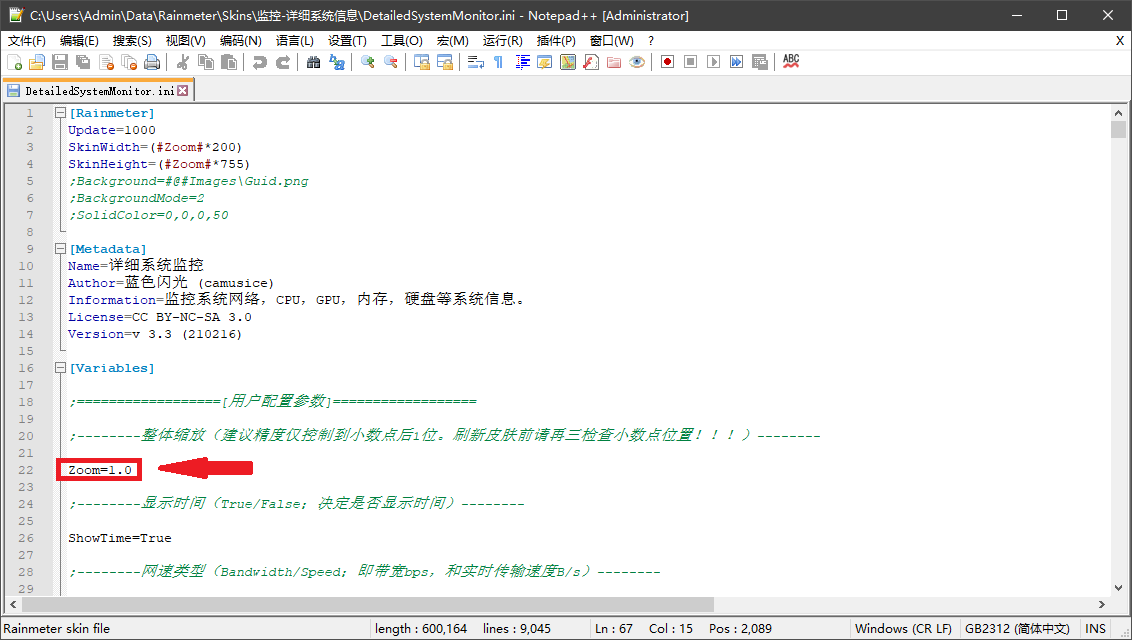
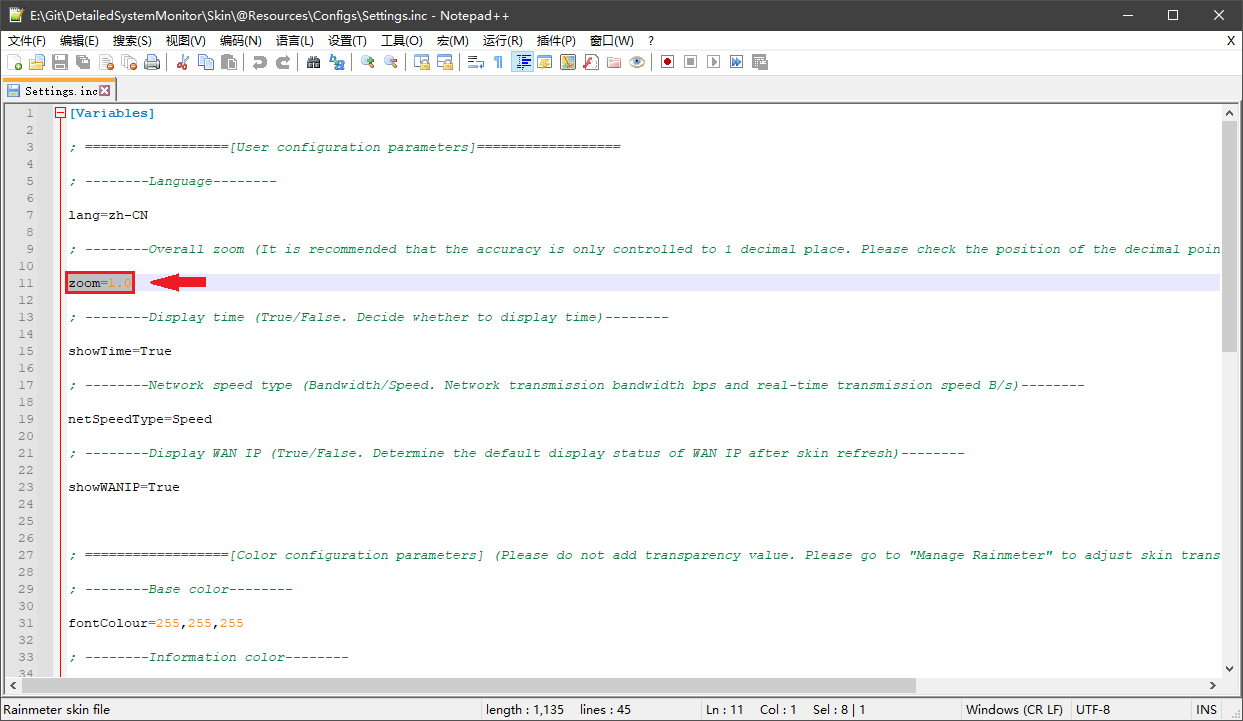
Add a supplementary method to capture the temperature of the NVIDIA GPU

Changed region(s): [[0.0, 0.0, 1.0, 1.0]]

diff --git a/Documents/Q&A.md b/Documents/Q&A.md
@@ -3,7 +3,7 @@
 
 #### 1. 为什么在我的电脑上，皮肤看起来很小？
 
-　　皮肤默认尺寸为 200 x 755 像素，不同计算机显示器的像素密度不同，在小尺寸但高分辨率屏幕上显示，看起来就会很小。解决方法是打开皮肤配置文件调整皮肤的缩放比例参数（如下图）：建议固定选择 **1.2**，**1.5** 或 **2.0**。特别注意**刷新皮肤前请检查小数点位置！！**
+　　皮肤默认尺寸为 200 x 755 像素，不同计算机显示器的像素密度不同，在小尺寸但高分辨率屏幕上显示，看起来就会很小。解决方法是打开皮肤目录下的“@Resources\Configs\Settings.inc”文件调整皮肤的缩放比例参数（如下图）：建议固定选择 **1.2**，**1.5** 或 **2.0**。特别注意**刷新皮肤前请检查小数点在正确位置！！**
 
 <p align="center">
   <img src="../Images/1.png" alt="皮肤缩放调节" width="900"/>

diff --git a/Documents/History.md b/Documents/History.md
@@ -2,6 +2,13 @@
 
 
 
+#### 2021年7月26日
+
+<img src="https://img.shields.io/badge/-%E4%BC%98%E5%8C%96-green?style=plastic" alt="优化" align="top" height="24" />　　为无法从“NvidiaGPU”插件获取温度的计算机补充一个捕获温度的方案。
+
+<img src="https://img.shields.io/badge/-%E4%BC%98%E5%8C%96-green?style=plastic" alt="优化" align="top" height="24" />　　优化“系统图标”显示。
+
+
 #### 2021年7月21日
 
 <img src="https://img.shields.io/badge/-%E4%BC%98%E5%8C%96-green?style=plastic" alt="优化" align="top" height="24" />　　“进程最大占用”图标化。
